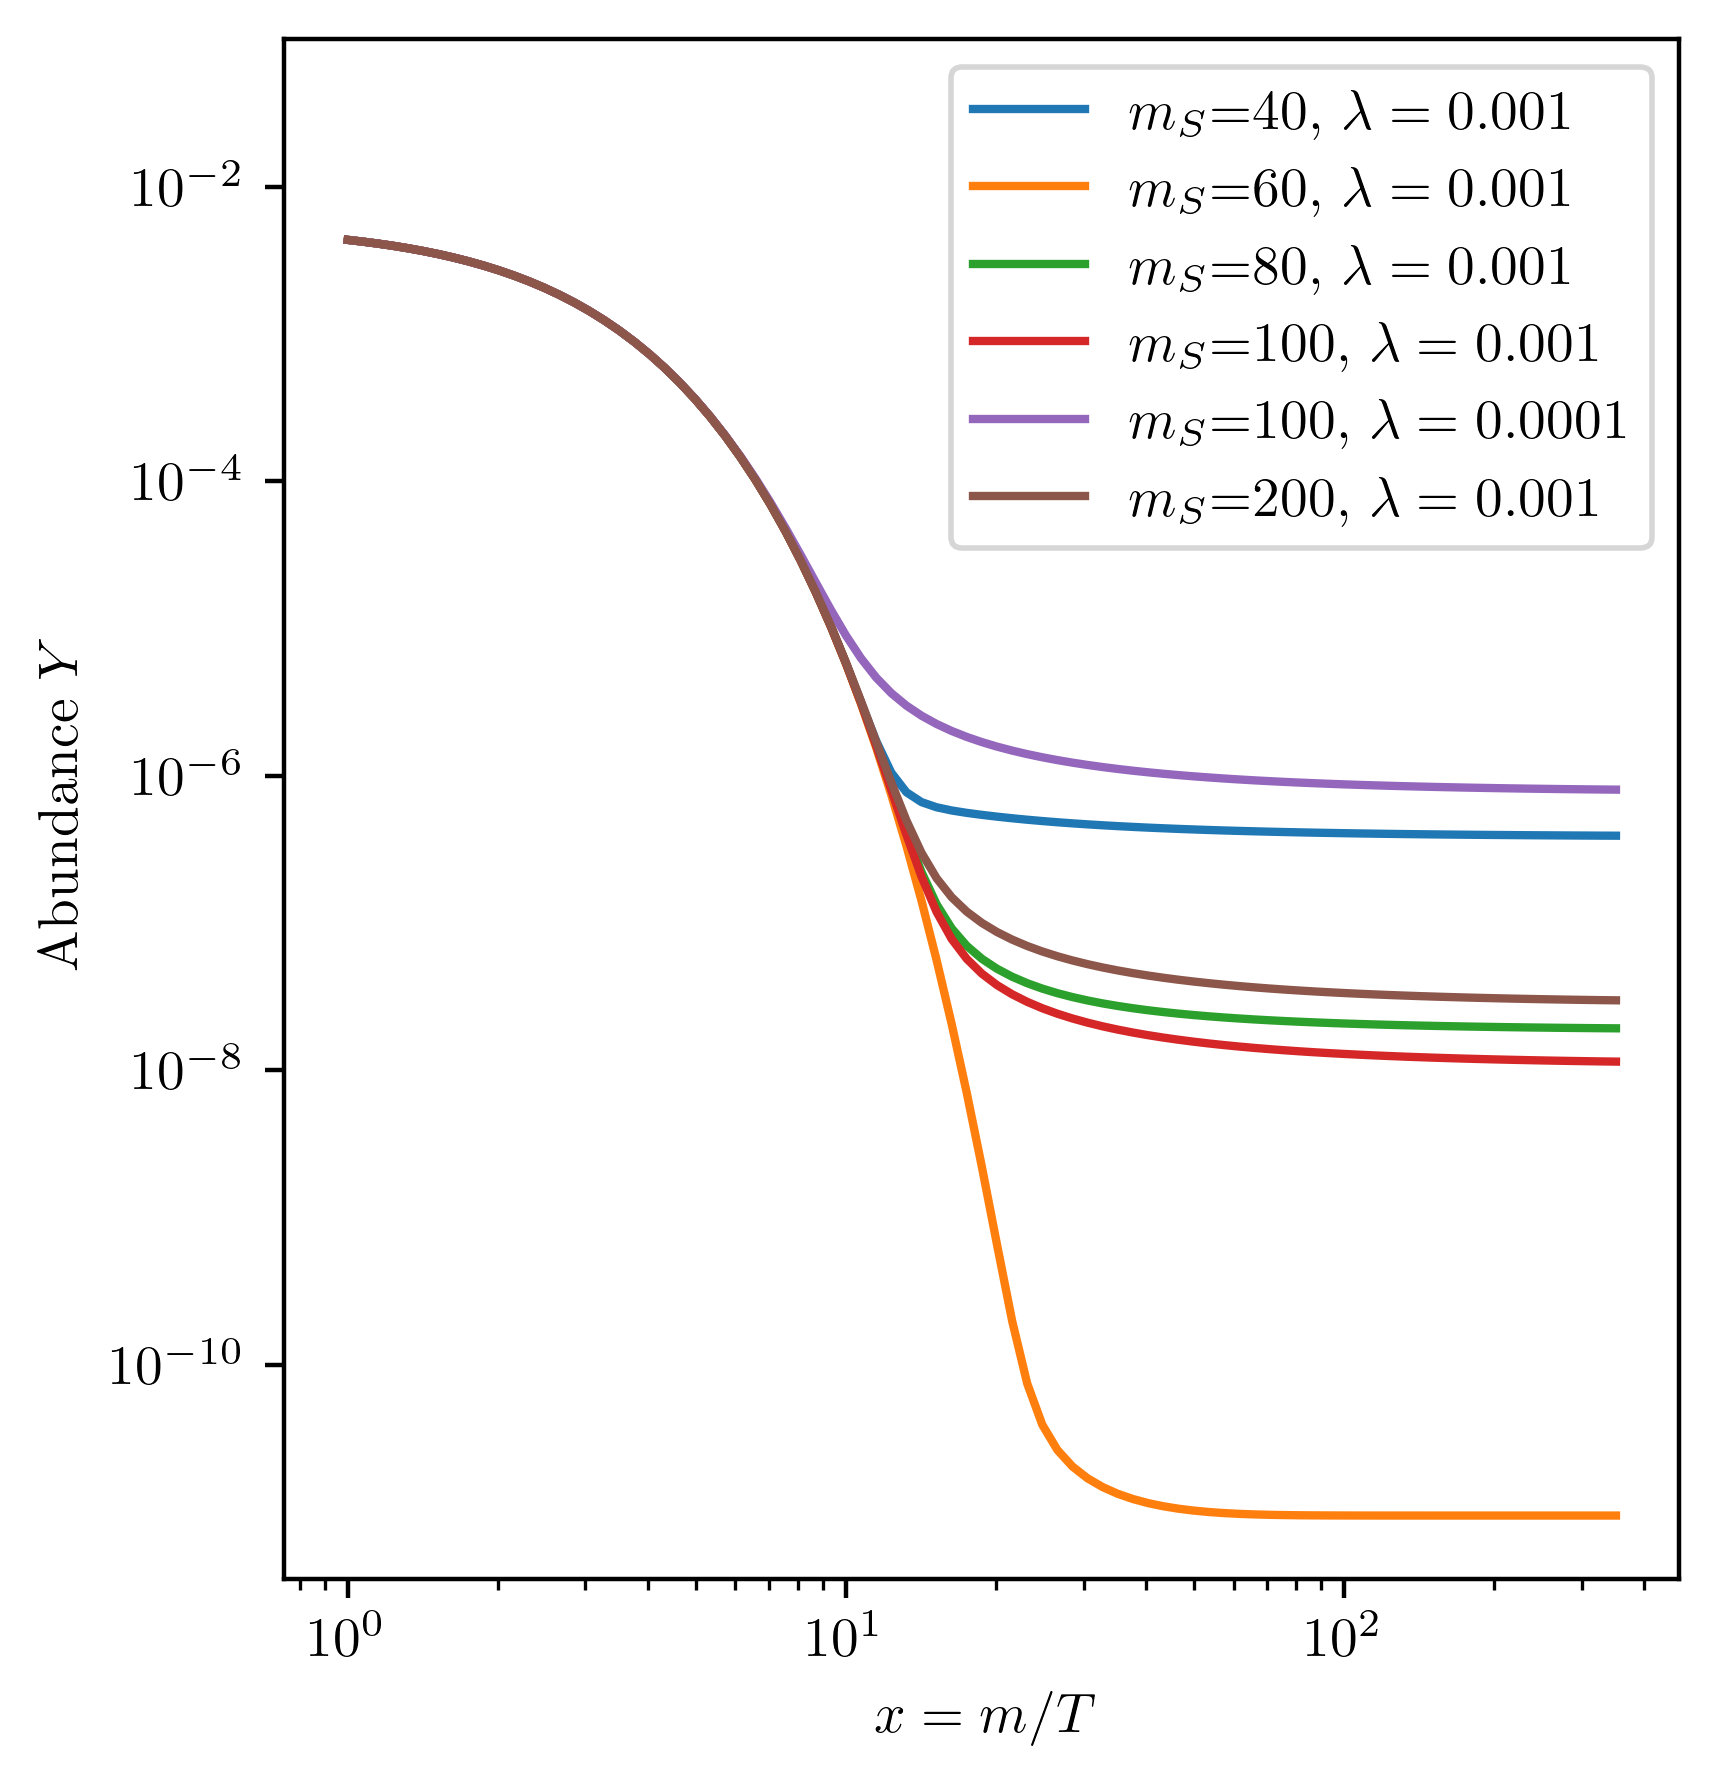
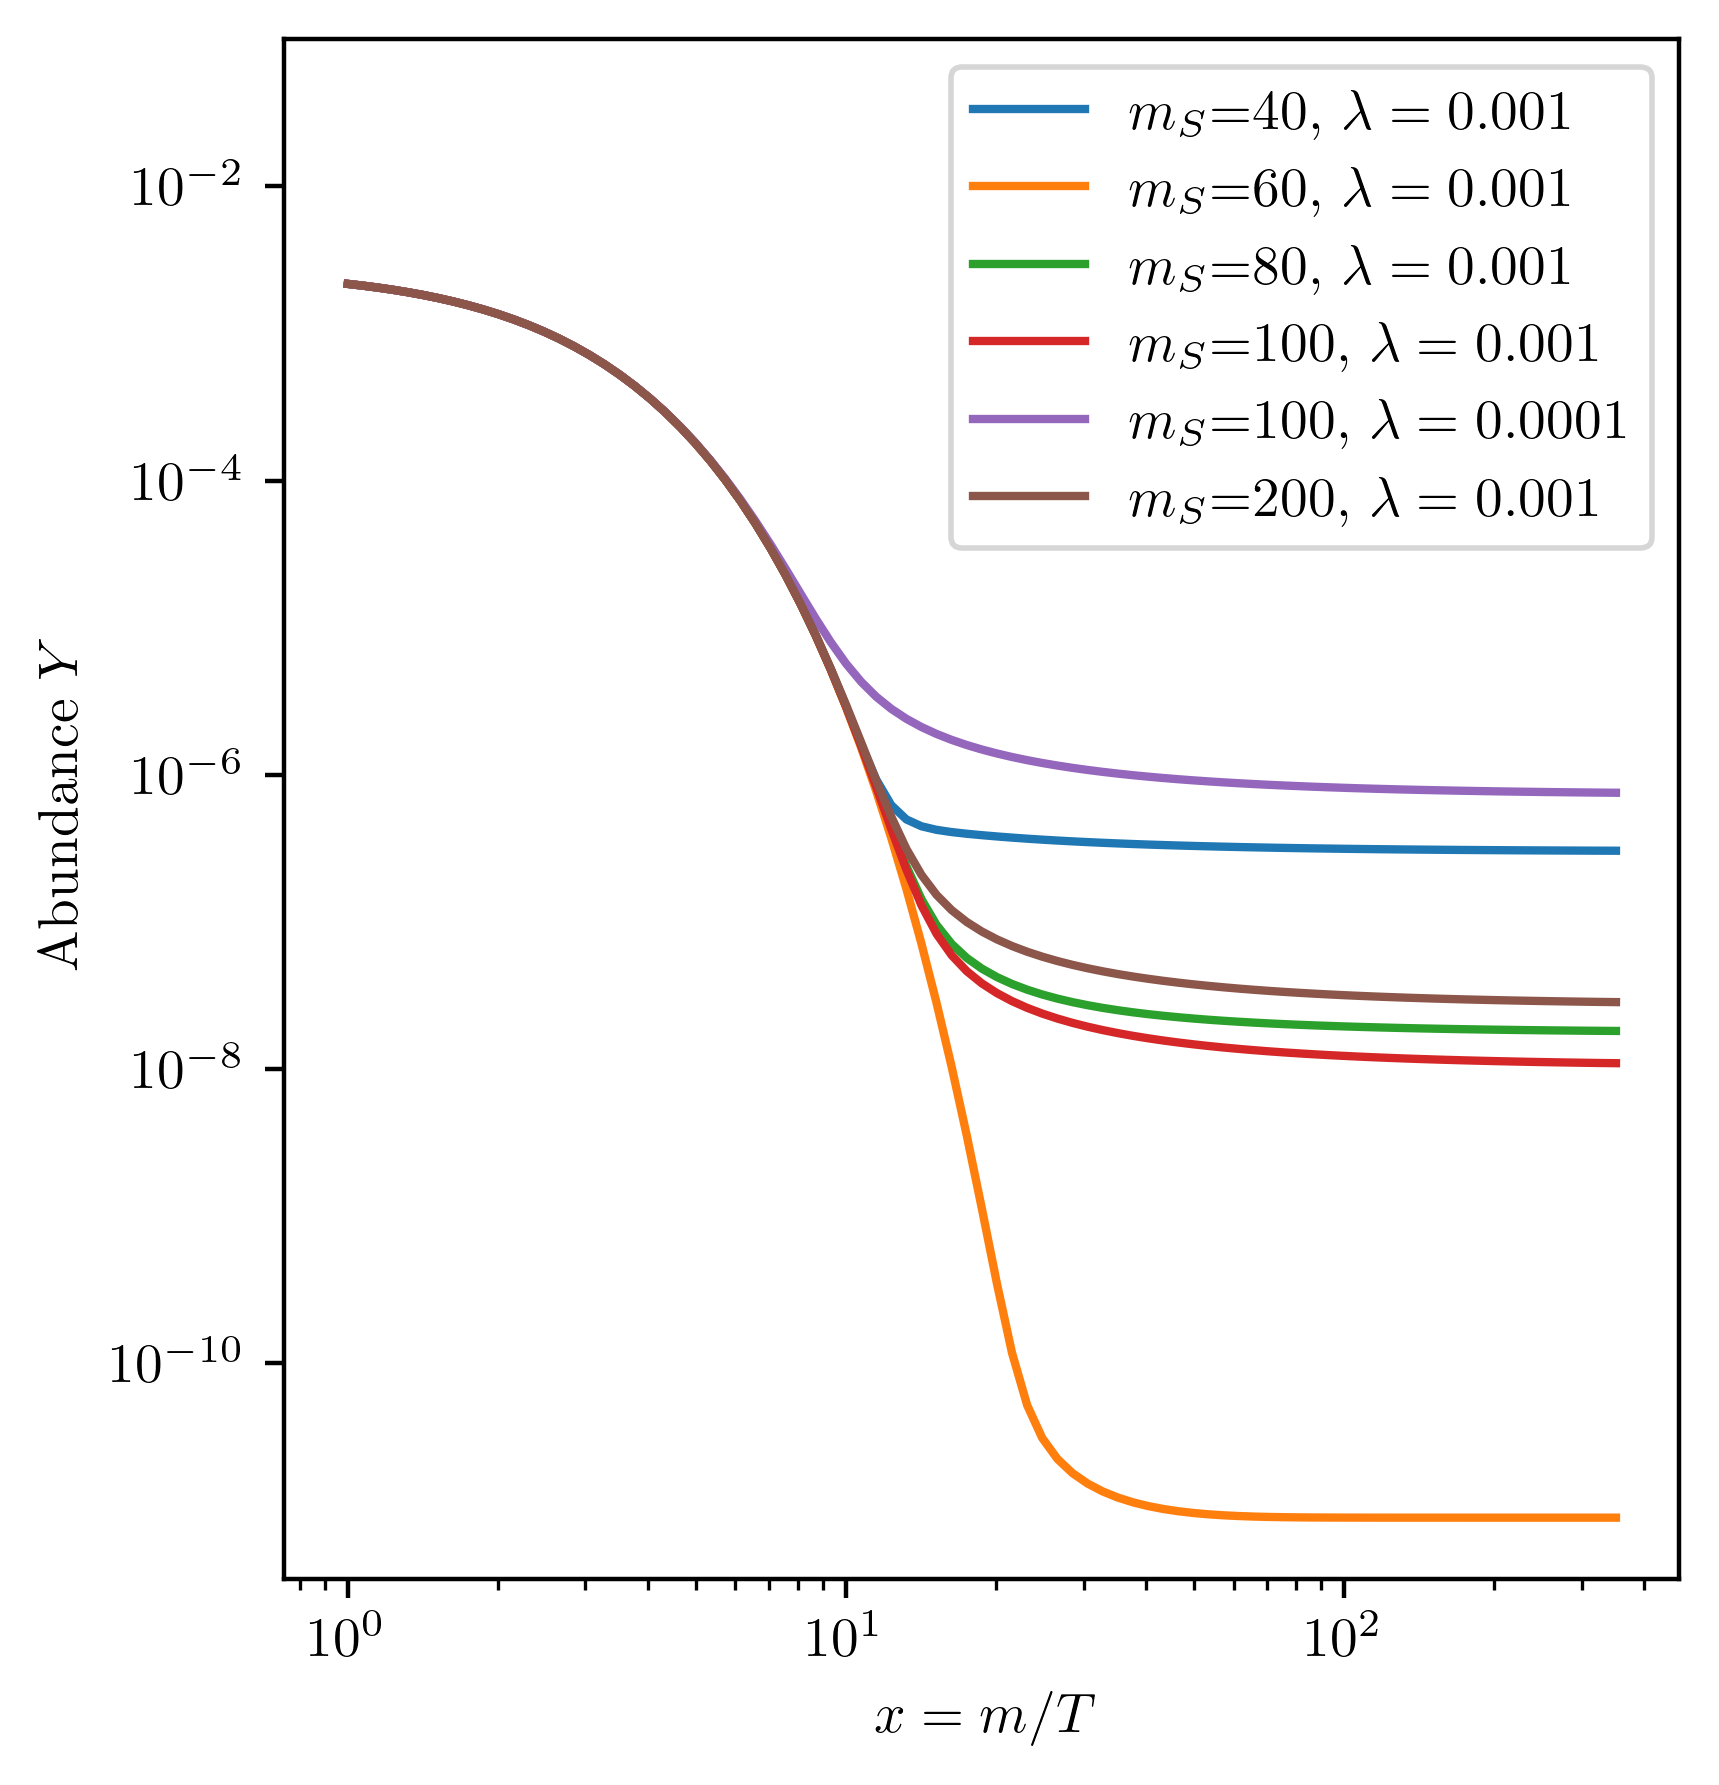
replot with no spin

Changed region(s): [[0.2158, 0.1232, 0.9558, 0.7395], [0.6475, 0.8319, 0.925, 0.8627], [0.5858, 0.7395, 0.6475, 0.8319]]

diff --git a/Question2.py b/Question2.py
@@ -267,32 +267,32 @@ def root_find(xarr, mass):
 
 ### Q4b ###
 
-# x = np.logspace(0, 3, 100)  # initialise temps
+x = np.logspace(0, 3, 100)  # initialise temps
 
-# fig, ax = plt.subplots(figsize=(4.5, 5))    # make figure
+fig, ax = plt.subplots(figsize=(4.5, 5))    # make figure
 
-# # define parameters we want to look at
-# masses = [40, 60, 80, 100, 100, 200]
-# lambdas = [1e-3, 1e-3, 1e-3, 1e-3, 1e-4, 1e-3]
+# define parameters we want to look at
+masses = [40, 60, 80, 100, 100, 200]
+lambdas = [1e-3, 1e-3, 1e-3, 1e-3, 1e-4, 1e-3]
 
-# for i, mass in enumerate(masses):
-#     y = dimenless_abund(x, mass, 1/2, [], [True, lambdas[i]])     # solve for the abundance across our temps
-#     ax.plot(x, y, label=f'$m_S$={mass}, $\lambda={lambdas[i]}$')   # and plot it on the figure
+for i, mass in enumerate(masses):
+    y = dimenless_abund(x, mass, 0, [], [True, lambdas[i]])     # solve for the abundance across our temps
+    ax.plot(x, y, label=f'$m_S$={mass}, $\lambda={lambdas[i]}$')   # and plot it on the figure
     
-# ax.set_xscale('log'); ax.set_yscale('log')
-# ax.set_xlabel("$x = m / T$"); ax.set_ylabel("Abundance $Y$")
-# ax.legend(loc='upper right')
-# ax.set_ylim(ymax=0.1)   # set a bit higher so that the legend fits nicely
+ax.set_xscale('log'); ax.set_yscale('log')
+ax.set_xlabel("$x = m / T$"); ax.set_ylabel("Abundance $Y$")
+ax.legend(loc='upper right')
+ax.set_ylim(ymax=0.1)   # set a bit higher so that the legend fits nicely
 
-# fig.savefig("Q4b.png", dpi=400, bbox_inches='tight')    # save figures as png (to look at) and pdf (for the report)
-# fig.savefig("Q4b.pdf", dpi=400, bbox_inches='tight')
+fig.savefig("Q4b.png", dpi=400, bbox_inches='tight')    # save figures as png (to look at) and pdf (for the report)
+fig.savefig("Q4b.pdf", dpi=400, bbox_inches='tight')
 
 
 
 ### Q4c ###
 x = np.logspace(0, 3, 20)
 # masses = np.logspace(np.log10(50), 3, 100) # big range of masses to look at
-masses = np.linspace(50, 200, 100)
+masses = np.linspace(50, 200, 150)
 # ovs = np.linspace(-30, -26, 5) # look at a few cross sections - this is a linspace, but these values will be used as powers
 
 # ys = np.zeros((len(masses), len(ovs))) # initialise array of data
@@ -301,7 +301,7 @@ ys = np.zeros(len(masses))
 for i, mass in enumerate(masses):
     # ys[i] = cosmo_abund([], x, mass, 1/2, 0, [True, 1e-3]) # calculate present day val for this mass and cross section, and store it
     # ys[i] = dimenless_abund(x, mass, 1/2, [], [True, 1e-3])[-1]
-    arr = dimenless_abund(x, mass, 1/2, [], [True, 1e-3])
+    arr = dimenless_abund(x, mass, 0, [], [True, 1e-3])
     index = len(masses) - 1
     for j, val in enumerate(arr):
         if np.isnan(val):
